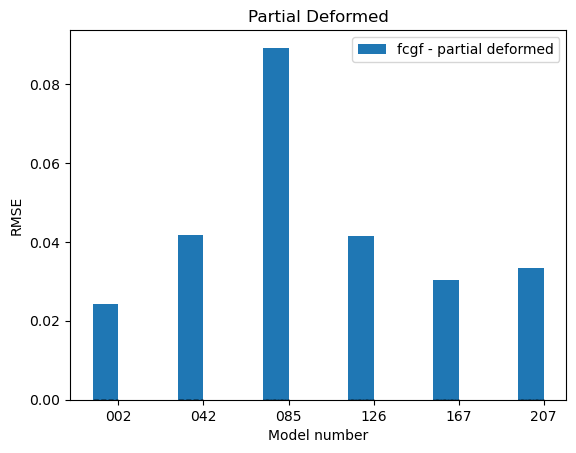
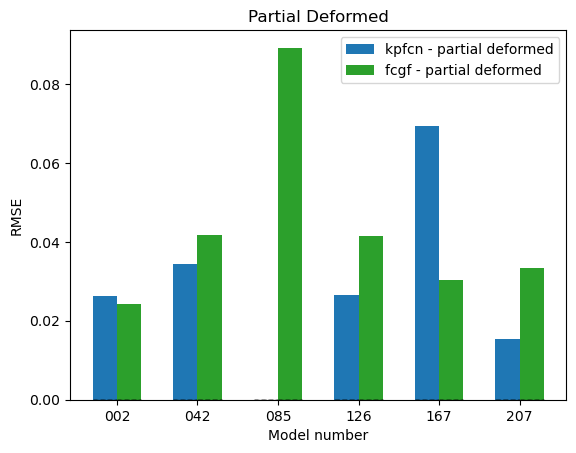
using the kpfcn weights trained on full deformed data

diff --git a/Testing/custom_filtering/aggregate_data_custom_filtering_rmse.py b/Testing/custom_filtering/aggregate_data_custom_filtering_rmse.py
@@ -58,9 +58,11 @@ elif preprocessing == 'none':
             }
         },
         'partial_deformed' : {
-            # 'kpfcn' : {
-            #    'conf' : '0.000001',
-            # },
+            'kpfcn' : {
+                'conf' : '0.000001',
+                'adm' : 2.0,
+                'nc' : 500
+            },
             'fcgf' : {
                 'conf' : '0.000001',
                 'adm' : 2.0,
